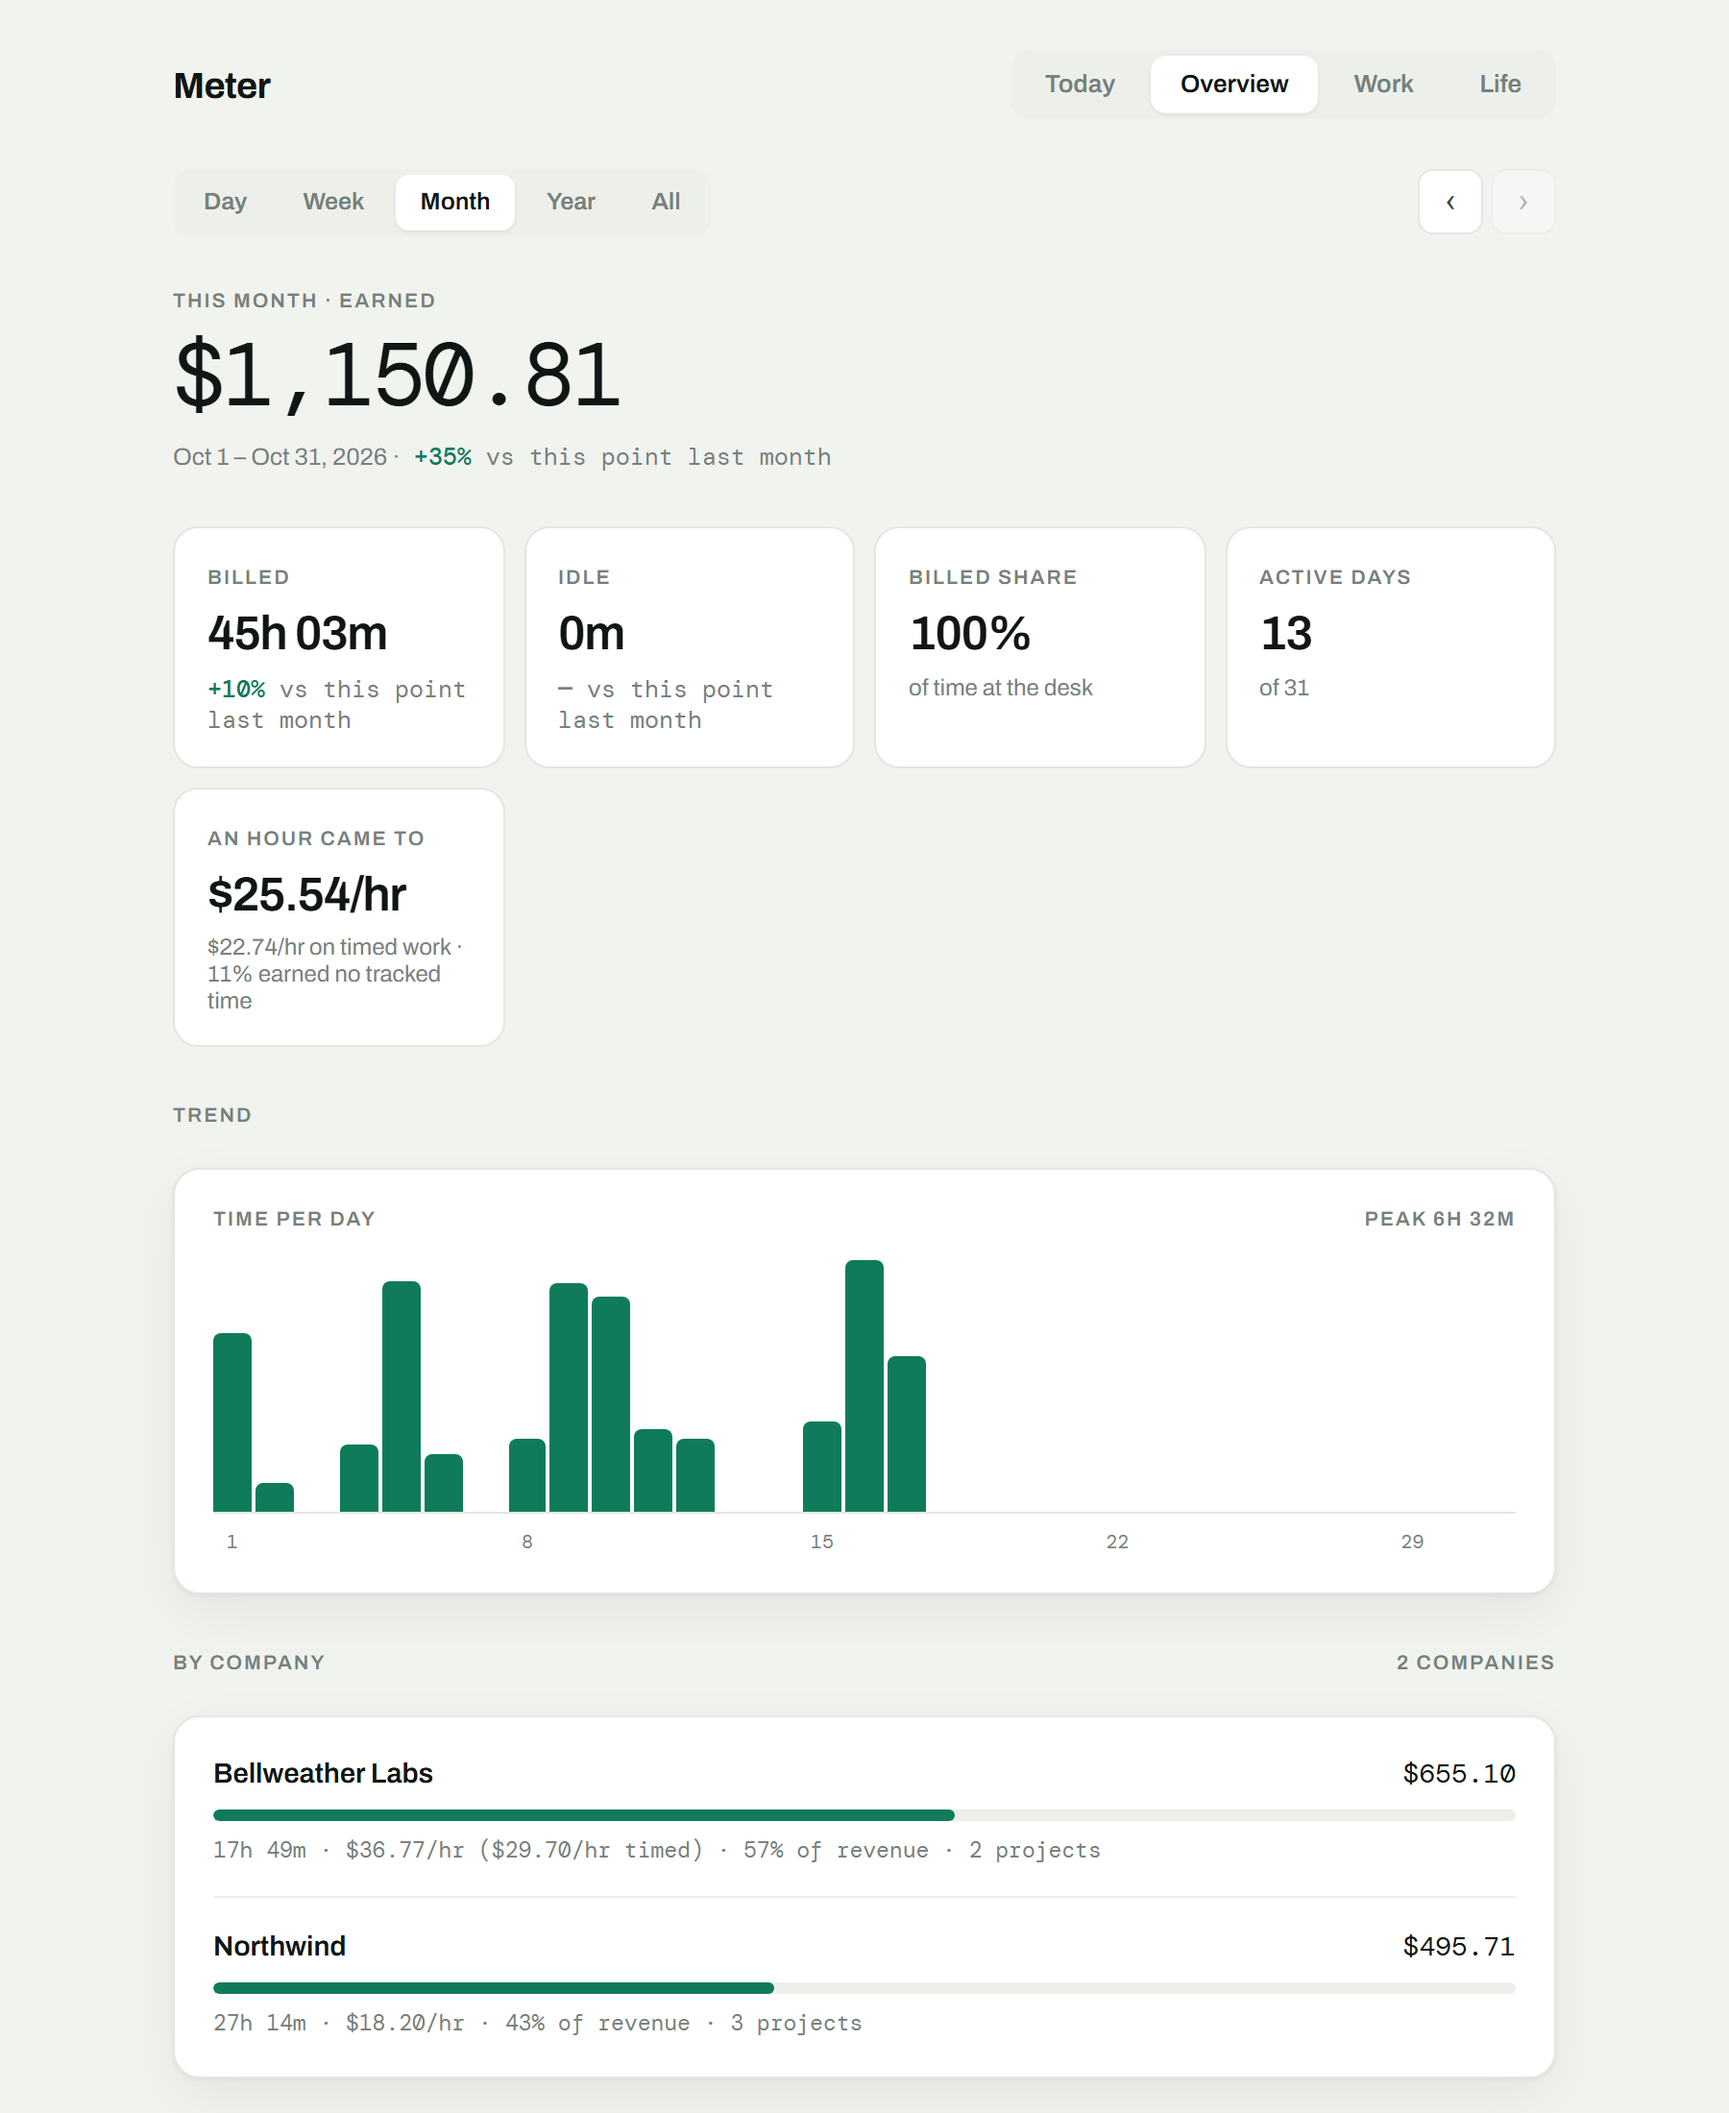
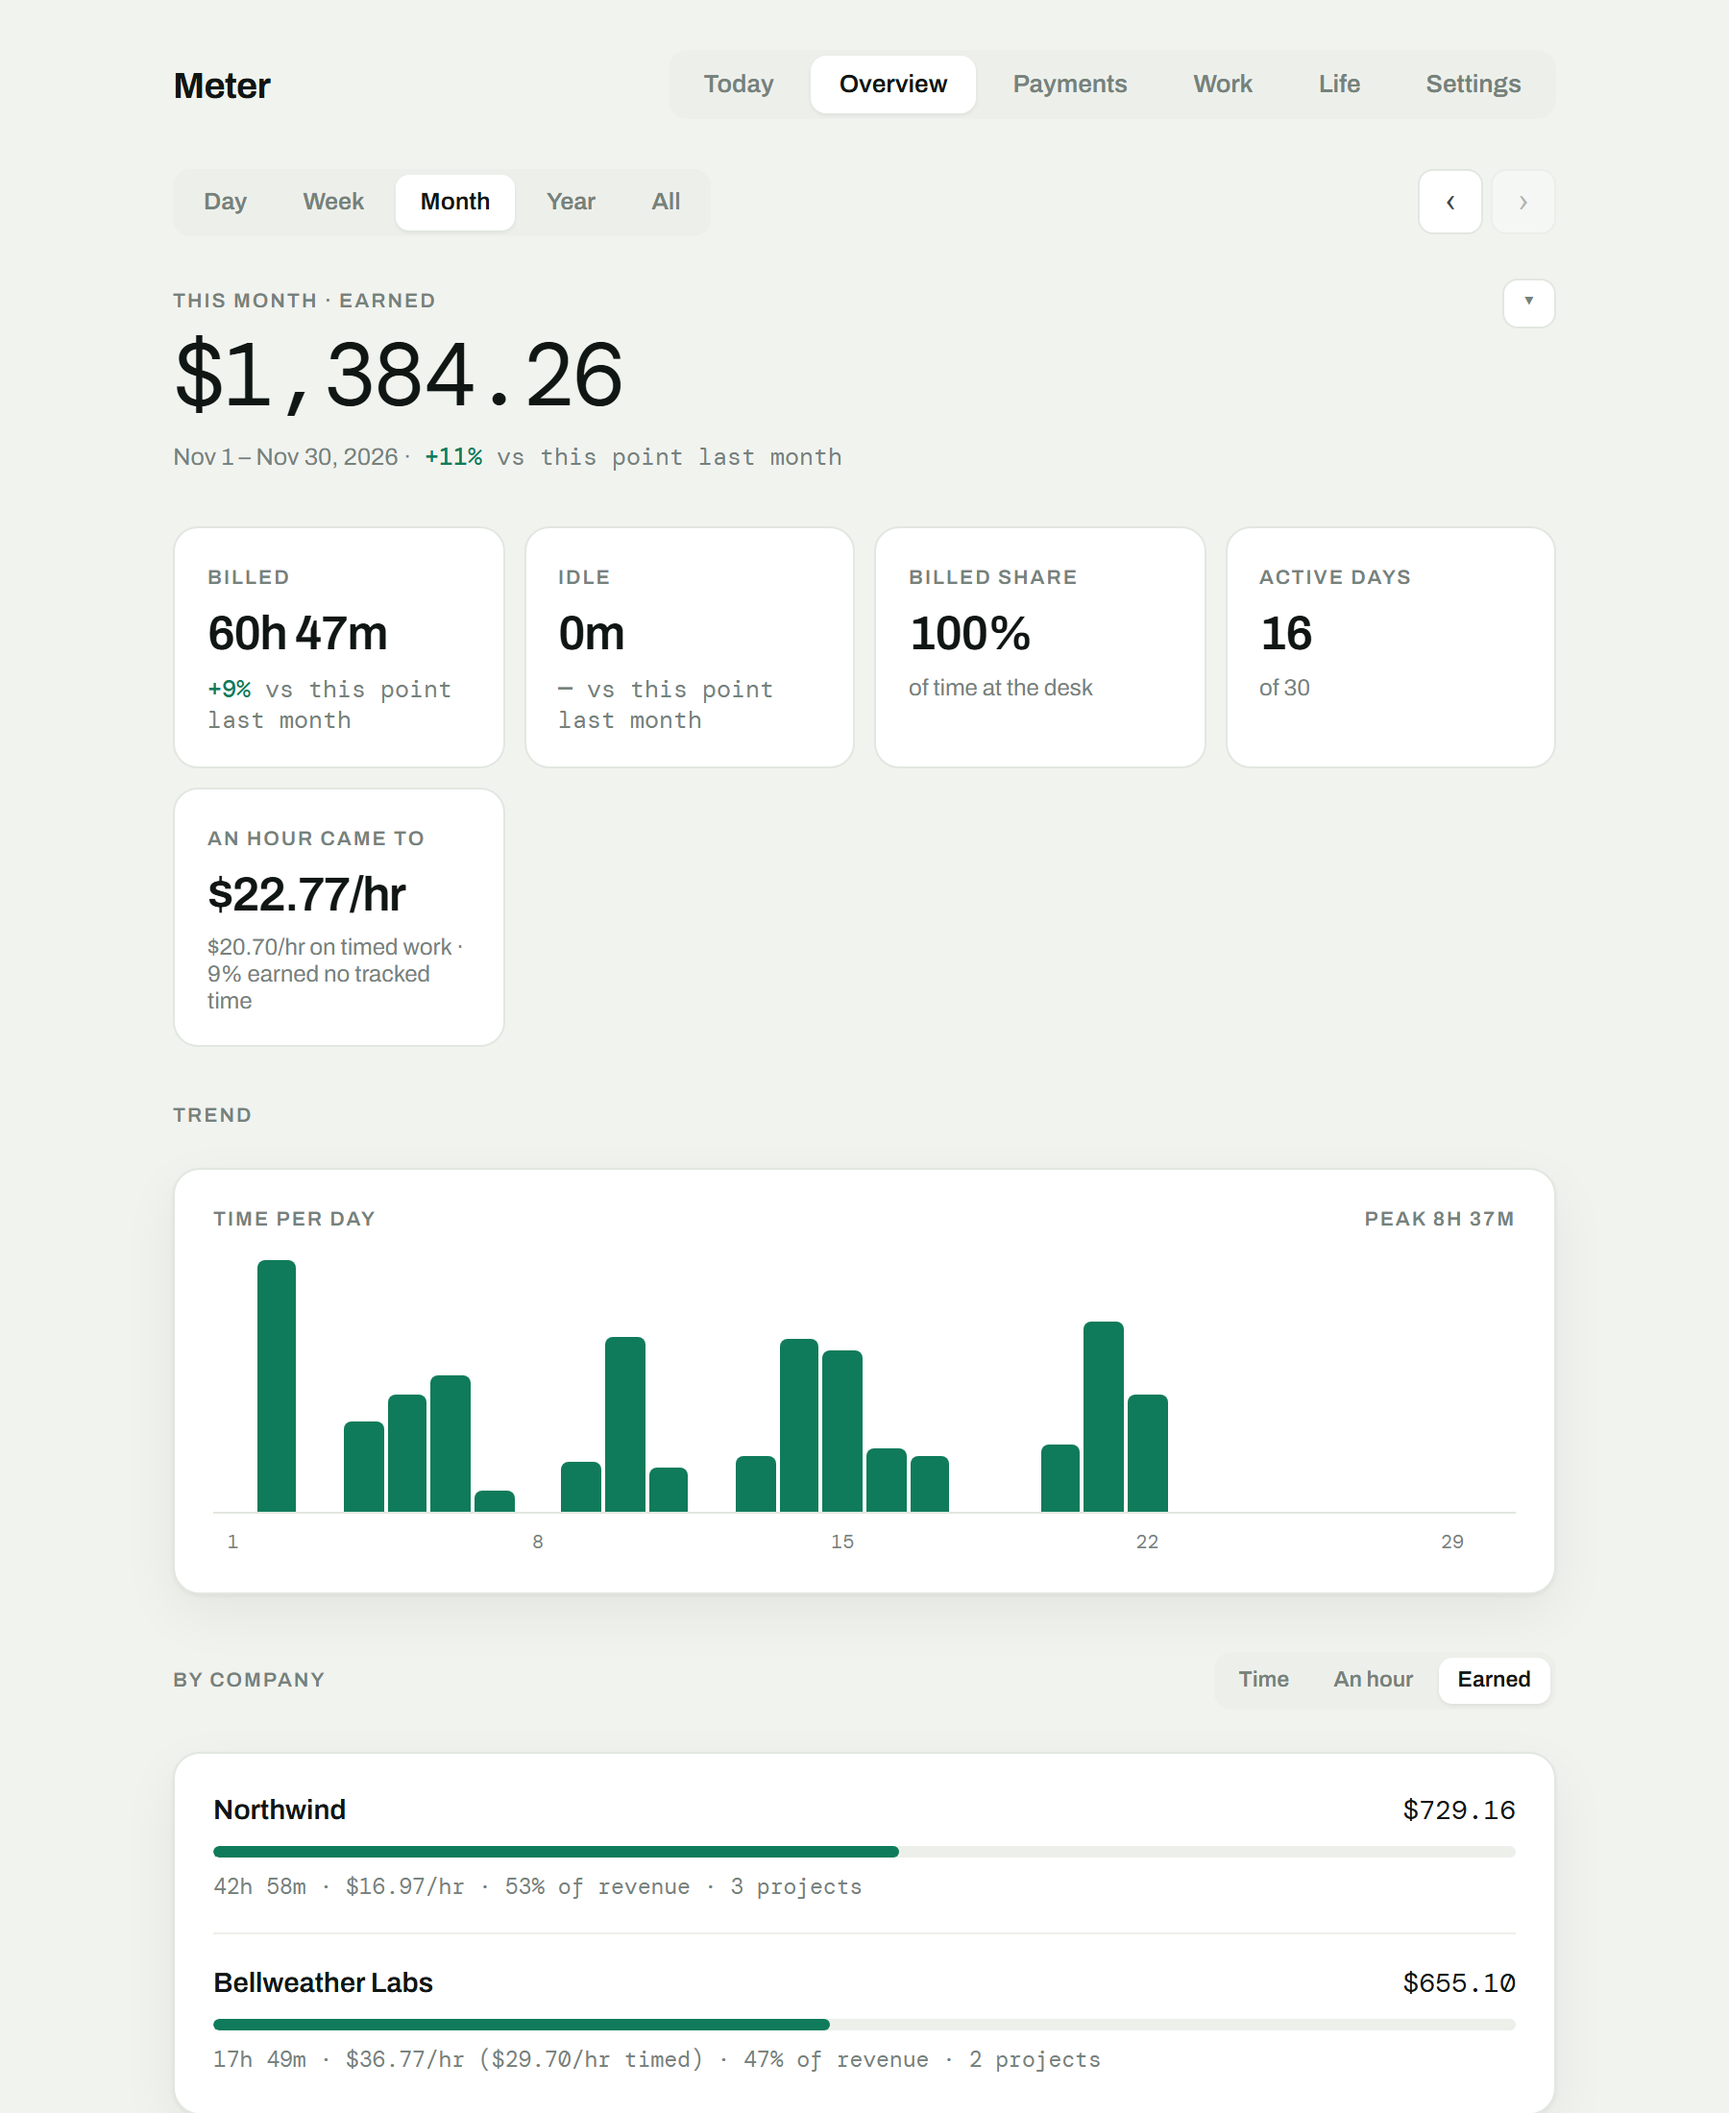
Show the Payments tab in the README and retake every screenshot
The demo clients get payday schedules and their bonuses are marked received, so the Payments shot has a history in it and no shot opens on a payday question. The screenshots predated the Payments and Settings tabs; all are retaken, the GIF too. The README describes the history going back to the start of the ledger, still owed with what is coming, and deductions coming off their payday.

diff --git a/README.md b/README.md
@@ -26,6 +26,10 @@ project, a client or an amount.
 | --- | --- |
 | ![A piece-rate project, quoting a price per accepted item instead of an hourly rate, above a list of accepted items at two different prices](docs/images/project.png) | ![The same overview at phone width, the cards reflowed two abreast](docs/images/phone.png) |
 
+**What each client paid, payday by payday**
+
+![The Payments tab: a statement for the year with what was received, expected and is still owed, split into overdue and coming, above the history of every payday, each client's payment marked paid with what was expected and what came](docs/images/payments.png)
+
 <sub>Screenshots run against `docs/demo-seed.json` — invented projects, invented
 rates. `npm run shots` regenerates every one of them.</sub>
 
@@ -79,9 +83,12 @@ rates. `npm run shots` regenerates every one of them.</sub>
   a QR code; a recovery code gets the account back. Google Drive sync still
   works for now and is being replaced.
 - **Keeps the history of what was paid.** The Payments tab holds Upcoming
-  payments and, below it, every past payday by date or by company: what was
-  expected, what came, what is still owed, per currency and never added across
-  them. Print it as a statement or export it as a CSV.
+  payments and, below it, every payday by date or by company, back to the
+  first day of the ledger: work from before paydays were set up is dated by
+  the client's schedule as it stood then. It shows what was expected, what
+  came, and what is still owed, overdue and coming, per currency and never
+  added across them. A deduction comes off the payday it belongs to, so each
+  figure is what actually lands. Print it as a statement or export it as a CSV.
 - **Follows your system's light or dark setting**, or whichever you pick,
   from the Settings tab, which also lists every client's payday, holds
   backup, restore and sync, and sets the order each project list opens in.
